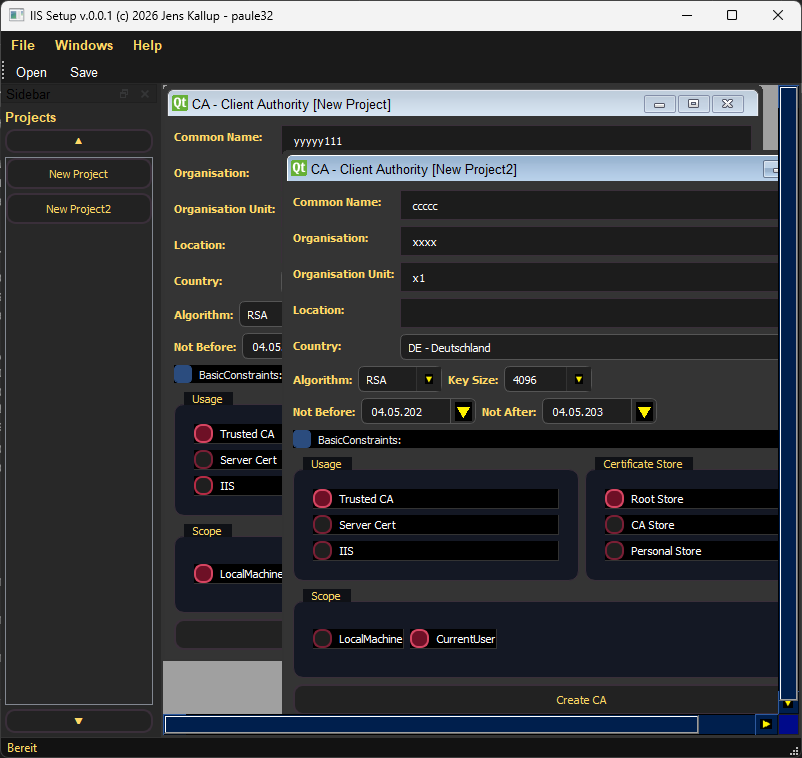
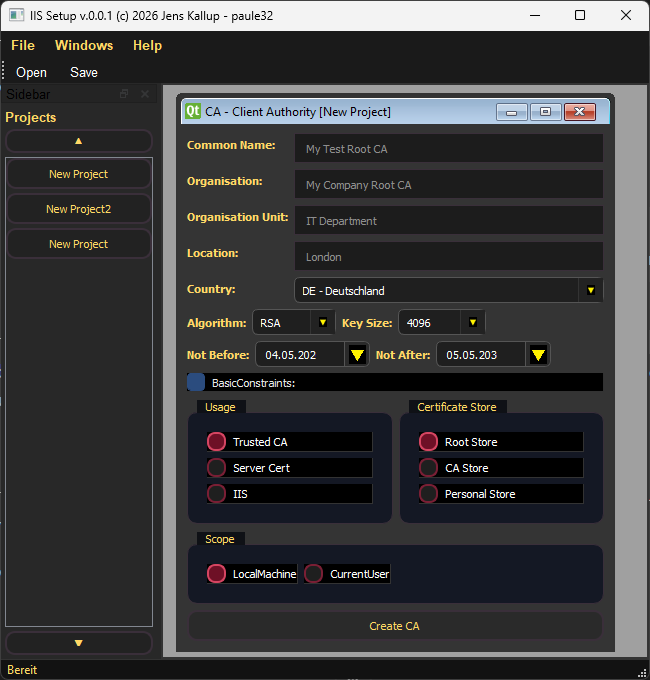
update

diff --git a/src/setup.py b/src/setup.py
@@ -17,7 +17,7 @@ from   ctypes import wintypes
 # Qt Backend Factory + Property Mapping
 # -----------------------------------------------------------------------
 from PyQt5.QtCore    import (
-    Qt, QDate
+    Qt, QDate, QThread, pyqtSignal
 )
 from PyQt5.QtGui     import (
     QPalette, QFont, QFontMetrics
@@ -26,8 +26,8 @@ from PyQt5.QtWidgets import (
     QApplication, QMainWindow, QMdiArea, QMdiSubWindow, QGroupBox, QDateEdit,
     QWidget, QVBoxLayout, QLabel, QAction, QFileDialog, QRadioButton,
     QMessageBox, QDockWidget, QToolBar, QTextEdit, QComboBox, QHBoxLayout,
-    QFormLayout, QLineEdit, QPushButton, QInputDialog, QCheckBox,
-    QScrollArea, QSizePolicy
+    QFormLayout, QLineEdit, QPushButton, QInputDialog, QCheckBox, QDialog,
+    QScrollArea, QSizePolicy, QPlainTextEdit
 )
 
 # -----------------------------------------------------------------------
@@ -75,6 +75,111 @@ def get_windows_countries():
     
     EnumSystemLocalesEx(LOCALE_ENUMPROCEX(callback), 0, 0, None)
     return sorted(result.items())
+
+
+class PowerShellWorker(QThread):
+    output = pyqtSignal(str)
+    error = pyqtSignal(str)
+    finished_ok = pyqtSignal()
+    finished_error = pyqtSignal(int)
+
+    def __init__(self, ps_script, parent=None):
+        super().__init__(parent)
+        self.ps_script = ps_script
+        self.process = None
+
+    def run(self):
+        try:
+            self.process = subprocess.Popen(
+                [
+                    "powershell",
+                    "-NoProfile",
+                    "-ExecutionPolicy", "Bypass",
+                    "-Command", self.ps_script
+                ],
+                stdout=subprocess.PIPE,
+                stderr=subprocess.PIPE,
+                text=True
+            )
+
+            for line in self.process.stdout:
+                self.output.emit(line.rstrip())
+
+            for line in self.process.stderr:
+                self.error.emit(line.rstrip())
+
+            return_code = self.process.wait()
+
+            if return_code == 0:
+                self.finished_ok.emit()
+            else:
+                self.finished_error.emit(return_code)
+
+        except Exception as e:
+            self.error.emit(str(e))
+            self.finished_error.emit(-1)
+
+    def stop(self):
+        if self.process and self.process.poll() is None:
+            self.process.terminate()
+
+
+class PowerShellOutputDialog(QDialog):
+    def __init__(self, ps_script, parent=None):
+        super().__init__(parent)
+
+        self.setWindowTitle("PowerShell Output")
+        self.resize(640, 480)
+
+        layout = QVBoxLayout(self)
+
+        self.output = QPlainTextEdit()
+        self.output.setReadOnly(True)
+        self.output.setFont(QFont("Consolas", 10))
+
+        self.btn_close = QPushButton("Close")
+        self.btn_close.setEnabled(False)
+        self.btn_close.clicked.connect(self.close)
+
+        layout.addWidget(self.output)
+        layout.addWidget(self.btn_close)
+
+        self.worker = PowerShellWorker(ps_script, self)
+        self.worker.output.connect(self.append_stdout)
+        self.worker.error.connect(self.append_stderr)
+        self.worker.finished_ok.connect(self.on_finished_ok)
+        self.worker.finished_error.connect(self.on_finished_error)
+
+        self.worker.start()
+
+    def append_stdout(self, text):
+        self.output.appendPlainText(text)
+
+    def append_stderr(self, text):
+        self.output.appendPlainText("[ERROR] " + text)
+
+    def on_finished_ok(self):
+        self.output.appendPlainText("")
+        self.output.appendPlainText("PowerShell-Skript erfolgreich ausgeführt.")
+        self.btn_close.setEnabled(True)
+
+    def on_finished_error(self, code):
+        self.output.appendPlainText("")
+        self.output.appendPlainText(f"PowerShell wurde mit Fehlercode {code} beendet.")
+        self.btn_close.setEnabled(True)
+
+        QMessageBox.critical(
+            self,
+            "PowerShell Fehler",
+            f"Das PowerShell-Skript wurde mit Fehlercode {code} beendet."
+        )
+
+    def closeEvent(self, event):
+        if self.worker.isRunning():
+            self.worker.stop()
+            self.worker.wait(2000)
+
+        super().closeEvent(event)
 
 
 class ProjectMdiSubWindow(QMdiSubWindow):
@@ -470,6 +575,10 @@ class CaAuthorityWindow(QWidget):
             "scope": scope
         }
 
+    def run_powershell_script(self, ps_script):
+        dlg = PowerShellOutputDialog(ps_script, self)
+        dlg.exec_()
+    
     def on_create_ca_button_clicked(self):
         self.store_scope = ""
         self.store_name  = ""
@@ -498,10 +607,10 @@ class CaAuthorityWindow(QWidget):
             "Error: location name is empty")
             return
             
-        not_before = self.date_not_before.date()
-        not_after  = self.date_not_after .date()
+        self.not_before = self.date_not_before.date()
+        self.not_after  = self.date_not_after .date()
         
-        if not_before >= not_after:
+        if self.not_before >= self.not_after:
             QMessageBox.warning(self,
             "Create CA",
             "Error: Not Before must be lesser as Not After.")
@@ -531,8 +640,62 @@ class CaAuthorityWindow(QWidget):
             "Error: store name is unknown.")
             return
         
-        
-        print("create")
+        pwsh_script = f"""
+$CommonName       = "{self.edit_common_name      .text()}"
+$Organisation     = "{self.edit_organisation     .text()}"
+$OrganisationUnit = "{self.edit_organisation_unit.text()}"
+$Location         = "{self.edit_location         .text()}"
+$Country          = "{self.combo_country         .currentData()}"
+$Algorithm        = "{self.combo_algorithm       .currentText()}"
+$KeySize          = { self.combo_key_size.currentText()}
+
+$NotBefore        = Get-Date "{self.date_not_before.date().toString("yyyy-MM-dd")}"
+$NotAfter         = Get-Date "{self.date_not_after .date().toString("yyyy-MM-dd")}"
+
+$StoreScope       = "{self.store_scope}"
+$StoreName        = "{self.store_name}"
+$CertStore        = "Cert:\\$StoreScope\\$StoreName"
+
+$Subject = "CN=$CommonName,O=$Organisation,OU=$OrganisationUnit,L=$Location,C=$Country"
+
+if ([string]::IsNullOrWhiteSpace($CommonName)) {{
+    throw "Common Name darf nicht leer sein."
+}}
+
+if ($NotBefore -ge $NotAfter) {{
+    throw "Not Before muss kleiner als Not After sein."
+}}
+
+$existing = Get-ChildItem $CertStore | Where-Object {{
+    $_.Subject -like "*CN=$CommonName*"
+}}
+
+if ($existing) {{
+    throw "Ein Zertifikat mit diesem Common Name existiert bereits im Store: $CertStore"
+}}
+
+$cert = New-SelfSignedCertificate `
+    -Type Custom `
+    -Subject $Subject `
+    -KeyAlgorithm $Algorithm `
+    -KeyLength $KeySize `
+    -KeyExportPolicy Exportable `
+    -KeyUsage CertSign, CRLSign, DigitalSignature `
+    -NotBefore $NotBefore `
+    -NotAfter $NotAfter `
+    -CertStoreLocation $CertStore `
+    -TextExtension @(
+        "2.5.29.19={{critical}}{{text}}CA=true",
+        "2.5.29.15={{critical}}{{text}}keyCertSign,cRLSign,digitalSignature"
+    )
+
+Write-Host "CA-Zertifikat wurde erstellt:"
+Write-Host "Subject:    $($cert.Subject)"
+Write-Host "Thumbprint: $($cert.Thumbprint)"
+Write-Host "Store:      $CertStore"
+"""
+        dlg = PowerShellOutputDialog(pwsh_script, self)
+        dlg.exec_()
 
 class ClientCertsWindow(QWidget):
     def __init__(self, parent=None):